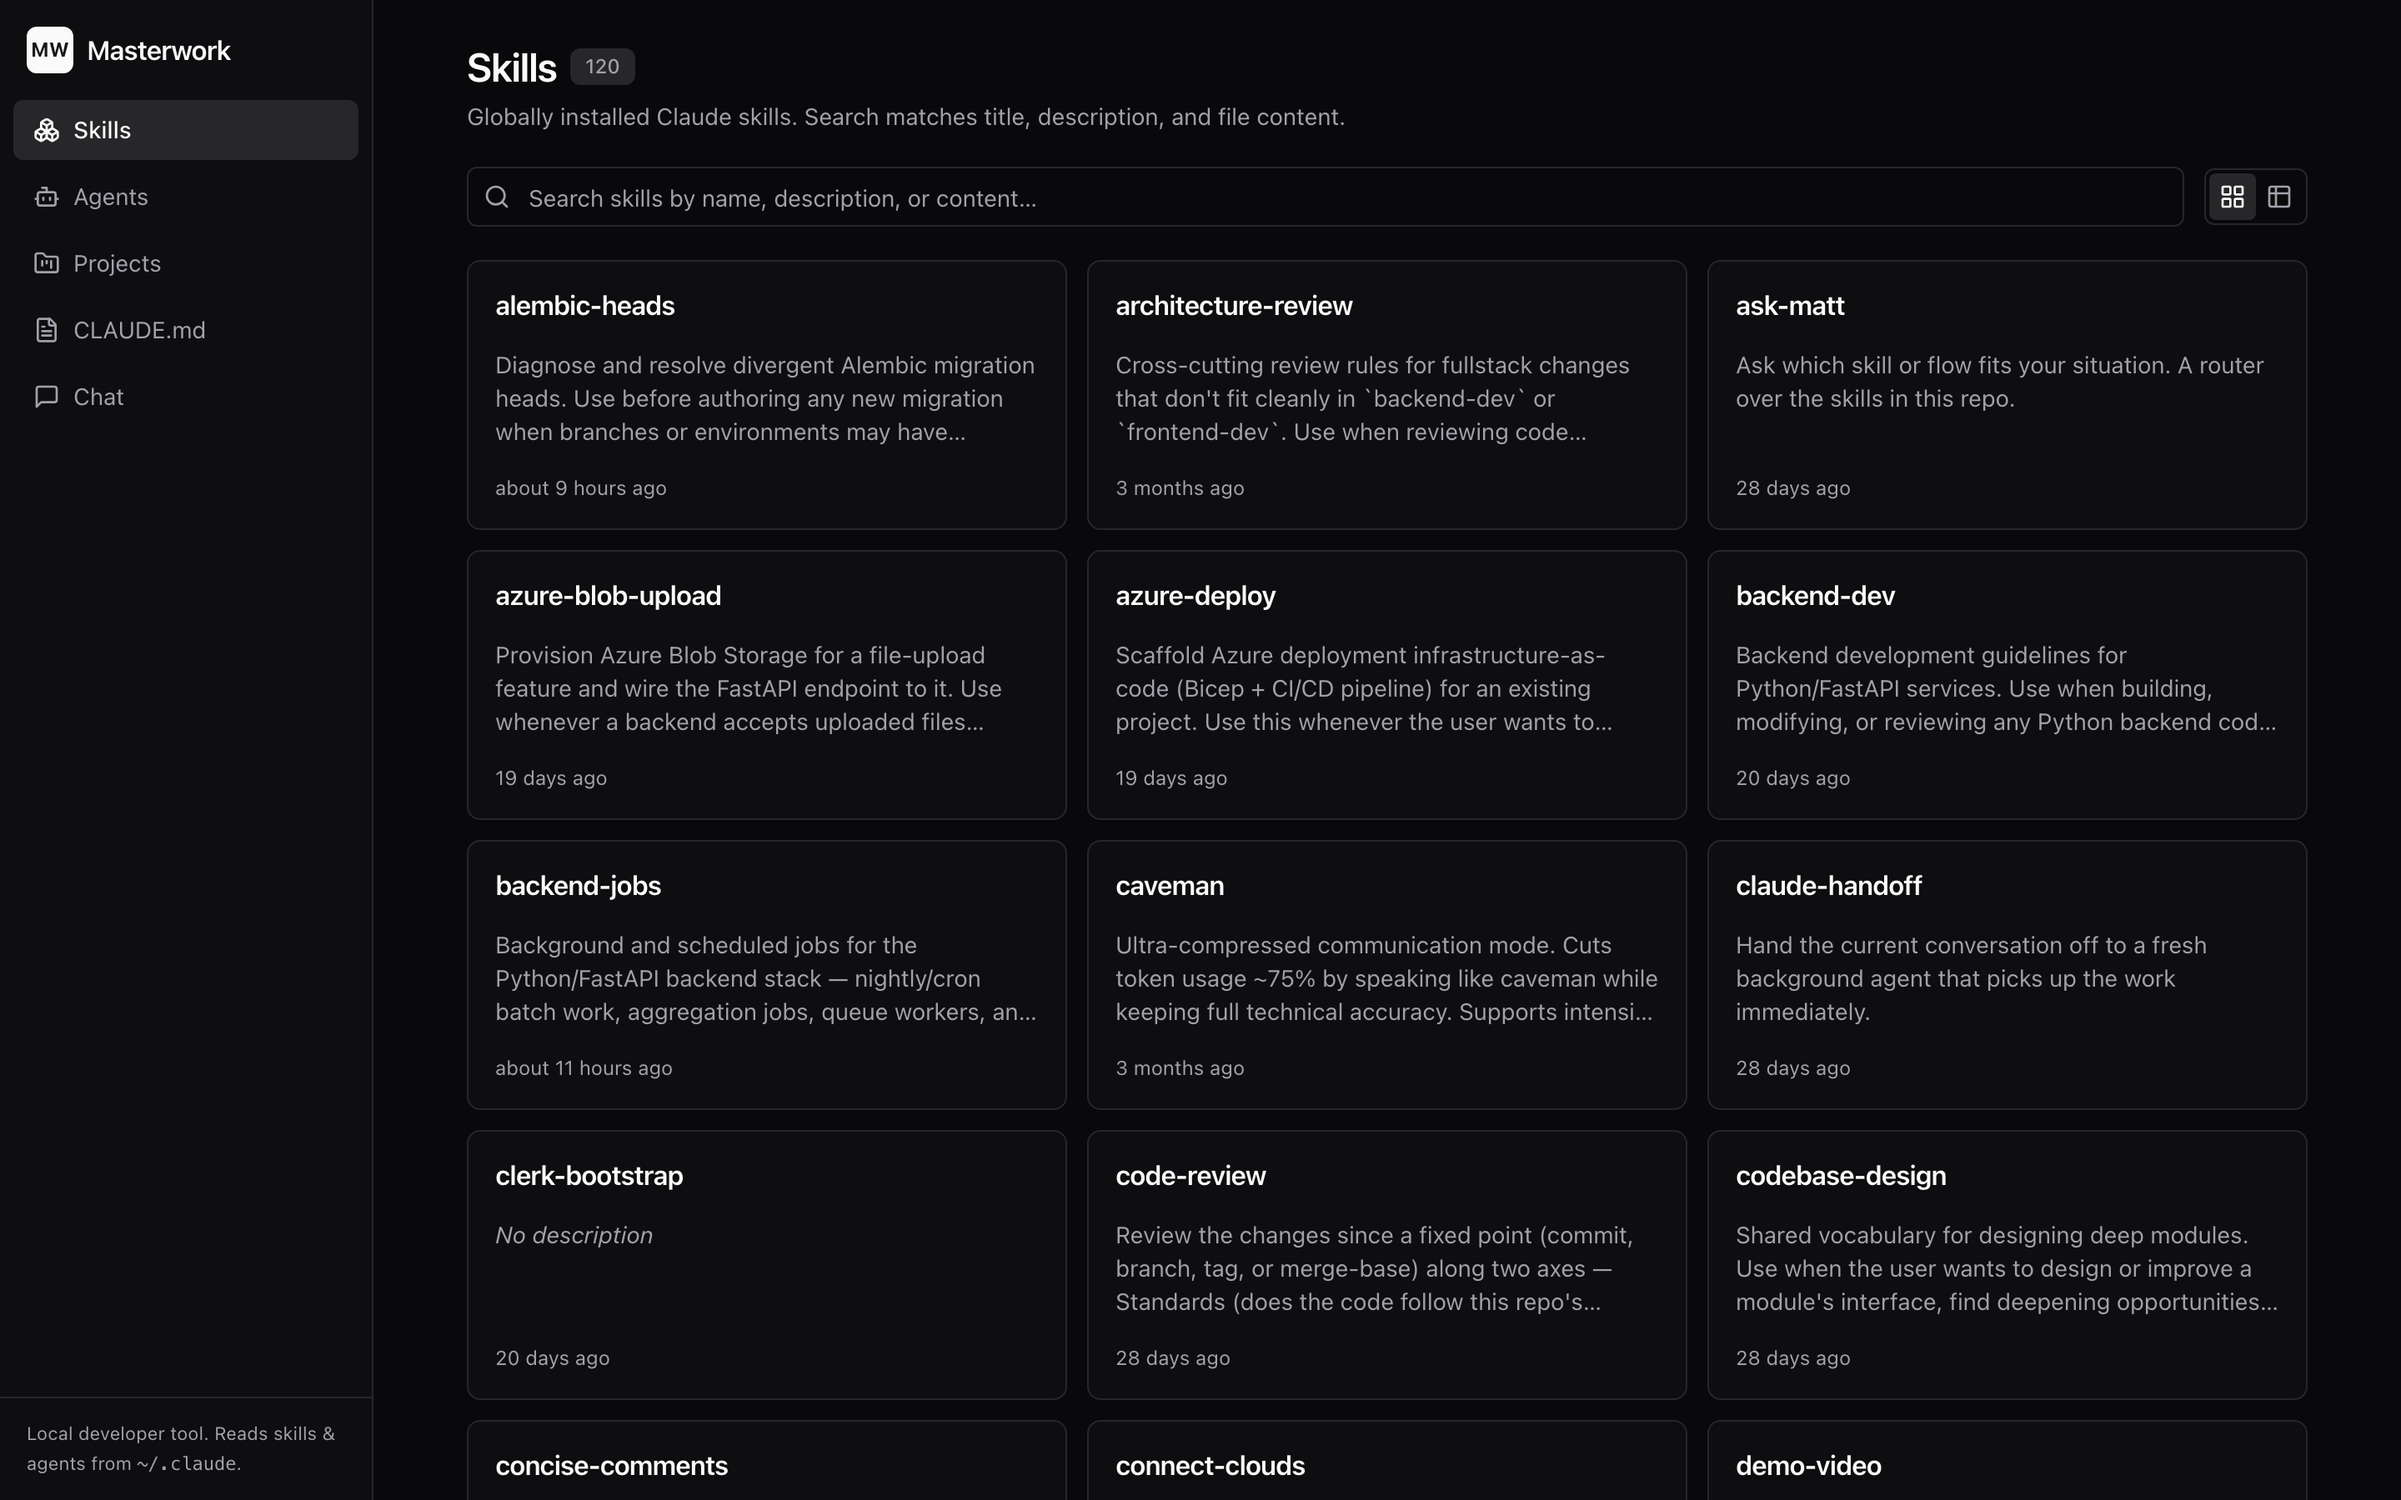
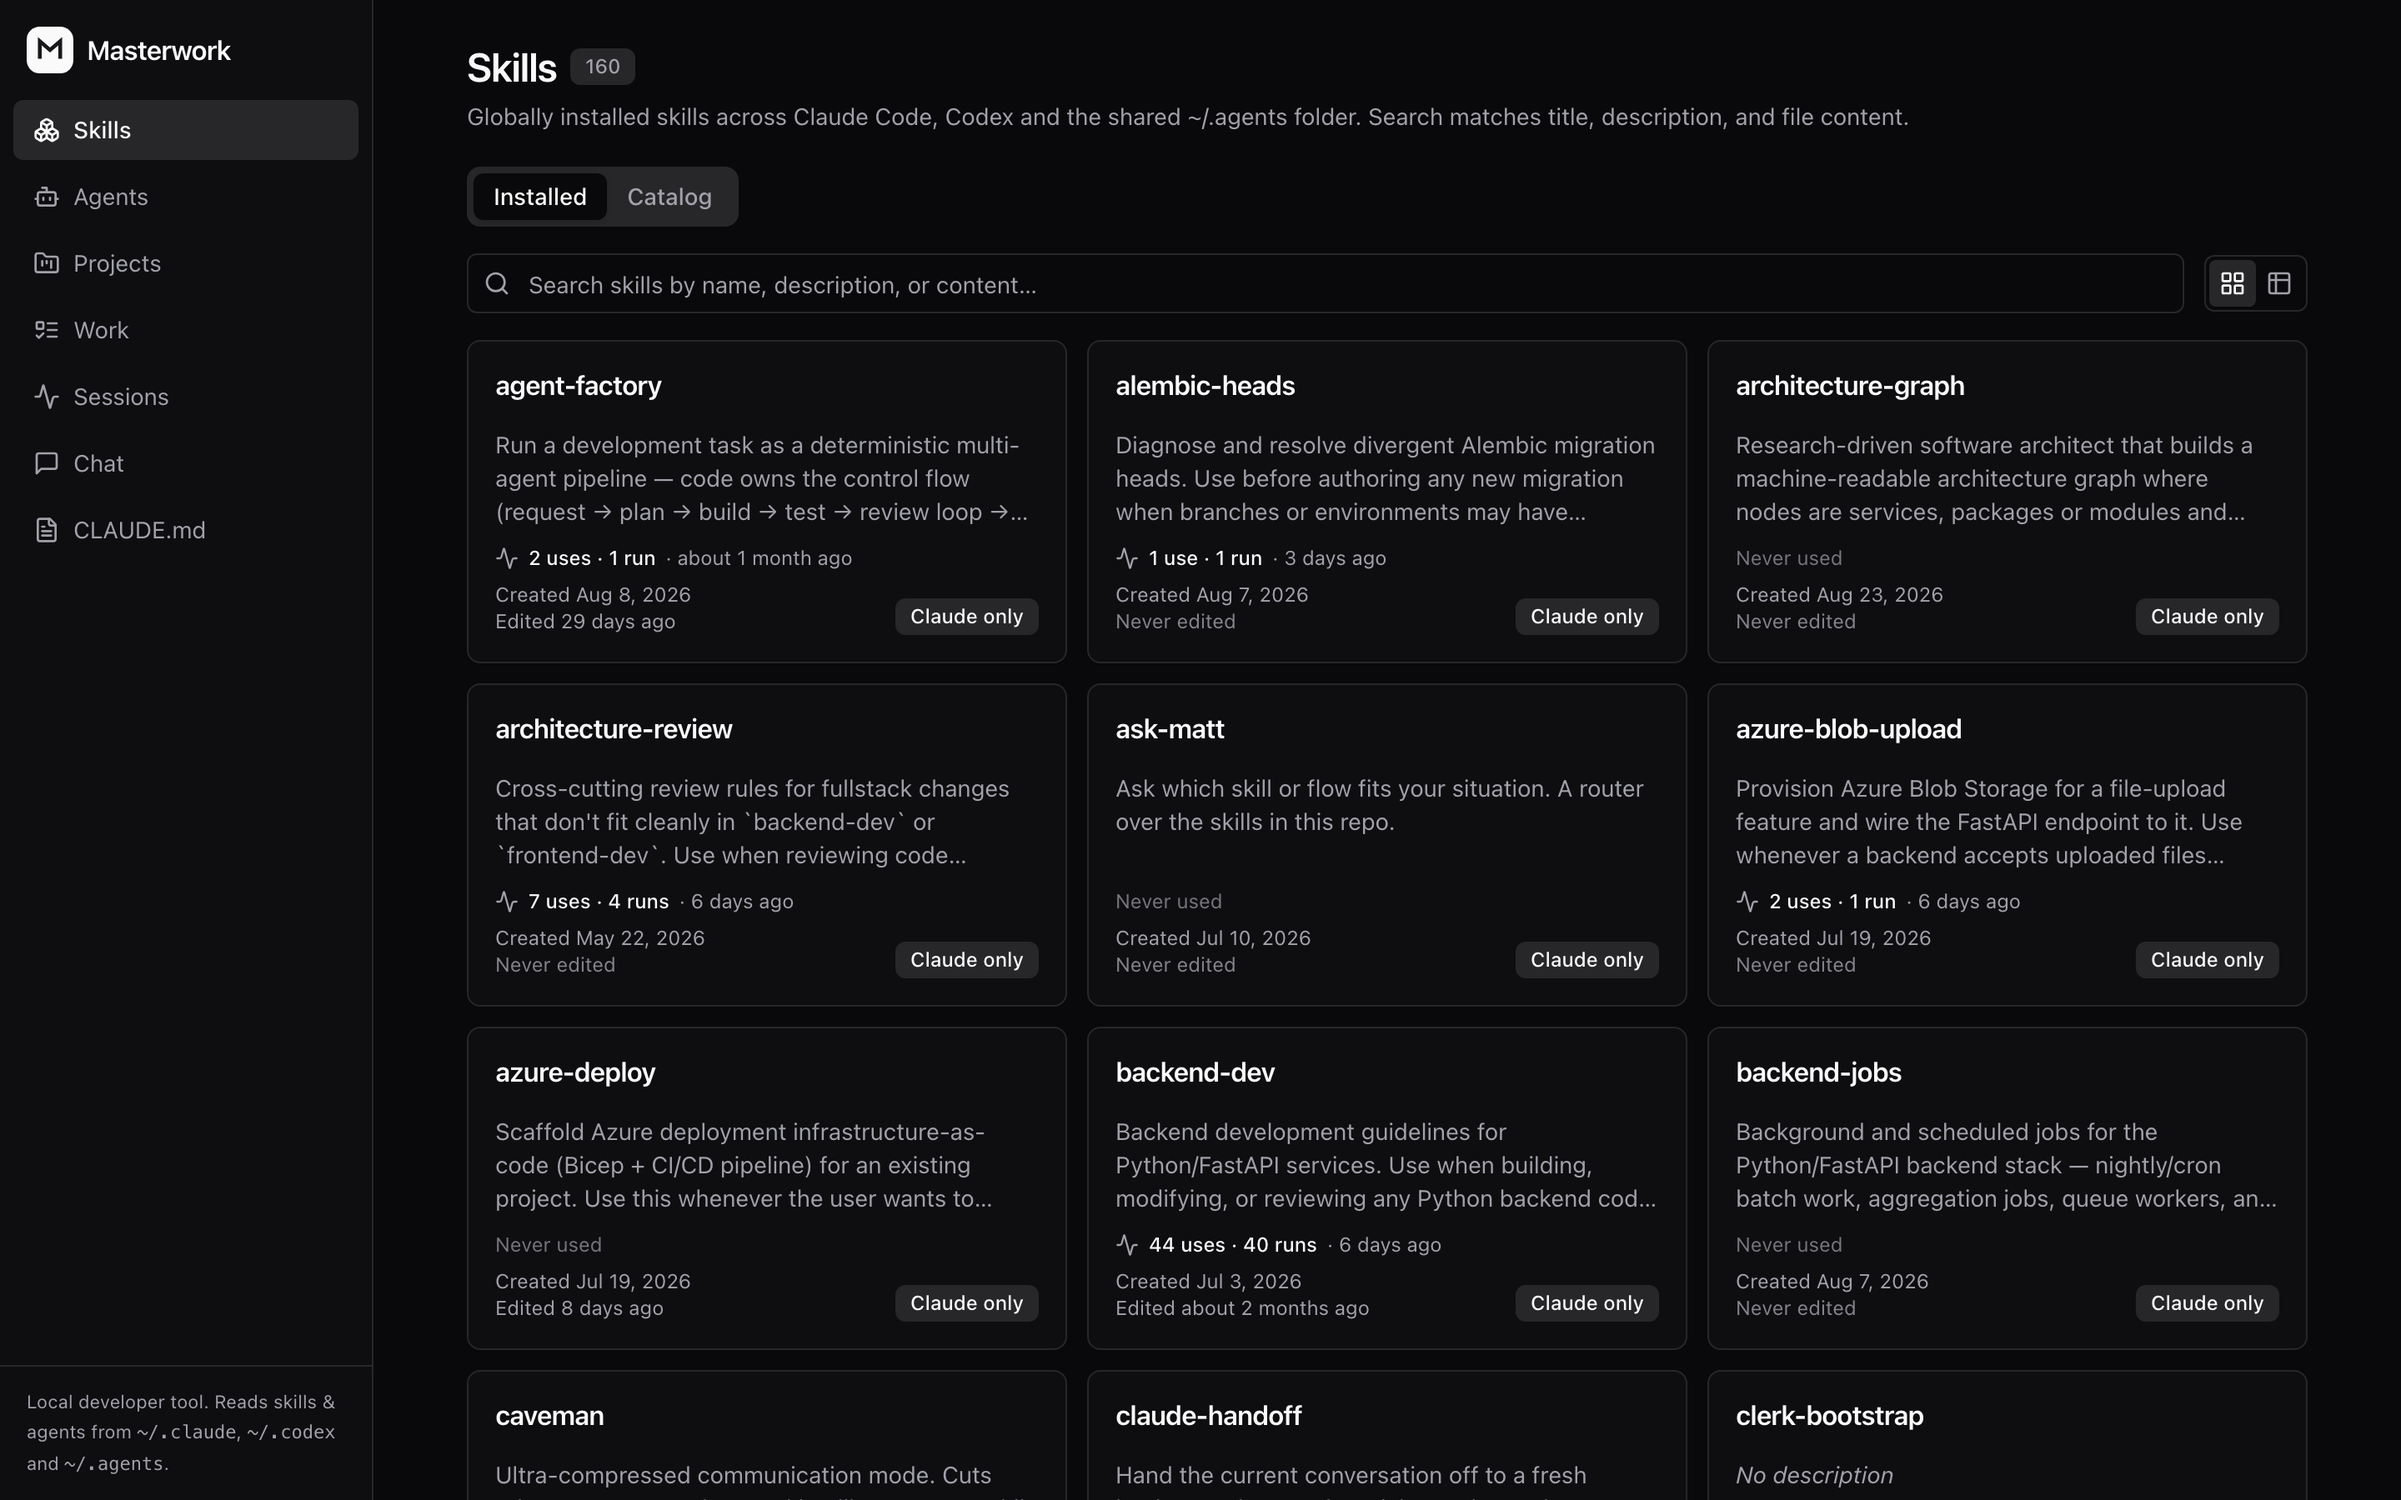
docs(readme): cover the catalog, the shared skills folder and Work
The README described the tool as of ~/.claude only: no catalog tab, no
Codex, no shared ~/.agents folder, no Work screen. Adds a section for
where skills live and what "make generic" does to them, one for the
community catalog and its licence gate, bullets for the rest, and updates
the module map and both roadmap items that shipped in part.

New screenshots at the same 1440x900@2x as the existing ones: the skills
list showing the same skill in two folders with only one of them loaded,
the make-generic confirmation, and a catalog search. skills.png is
re-taken because it was a month stale.

diff --git a/README.md b/README.md
@@ -4,9 +4,9 @@
 [![CI](https://github.com/flieks/masterwork/actions/workflows/ci.yml/badge.svg)](https://github.com/flieks/masterwork/actions/workflows/ci.yml)
 [![License: Elastic-2.0](https://img.shields.io/badge/license-Elastic--2.0-blue.svg)](LICENSE)
 
-A local workbench for the skills and subagents your AI coding agent uses — browse
-them, edit them, refine them with AI, and **prove they work** with scored
-simulation runs.
+A local workbench for the skills and subagents your AI coding agents use — browse
+them across Claude Code, Codex and the shared `~/.agents` folder, edit them,
+refine them with AI, and **prove they work** with scored simulation runs.
 
 Writing a skill is easy. Knowing whether it actually fires at the right moment,
 does the right thing, and doesn't quietly overfit to the one example you wrote it
@@ -20,6 +20,13 @@ against — that's the hard part. Masterwork is built for that second half.
 
 - **Browse & edit** every skill and subagent installed on your machine, with
   search, diffs, and git-backed snapshots of every change.
+- **Every agent's folder, one list** — Claude Code reads `~/.claude`, Codex reads
+  `~/.codex`, and neither looks in the other's. Each skill is badged with the
+  agents that actually load it, so a copy nothing reads is visible instead of
+  silent.
+- **Install from the catalog** — search skills.sh and GitHub's `claude-skills`
+  topic in one box, read the `SKILL.md` before you commit to it, and install.
+  Unlicensed skills say so and take a second click.
 - **Simulate** — run a skill against a scenario, score the result against a
   checklist, and see exactly which criteria it missed. Re-run after edits to
   confirm the fix.
@@ -32,8 +39,13 @@ against — that's the hard part. Masterwork is built for that second half.
 - **Sessions** — record the runs your coding agent actually does: which skills
   and subagents each one used, where the time went, what it cost. One click to
   switch on.
+- **Work** — your backlog next to the pull requests waiting on you, with each
+  PR's review comments read in place and handed to a fresh coding session to
+  answer.
 - **Global instructions** — edit your agent's root instructions file in the same
   place as everything else.
+
+![The same two skills in two folders — one Claude loads, one nothing loads yet](docs/images/agents.png)
 
 ## Requirements
 
@@ -41,6 +53,7 @@ against — that's the hard part. Masterwork is built for that second half.
 - Python 3.13+ and [uv](https://docs.astral.sh/uv/)
 - Node 20+
 - The [Claude Code](https://claude.com/claude-code) CLI, signed in
+- Codex is optional: its skills folder is read when it exists
 
 No database server needed — it uses SQLite at `~/.masterwork/masterwork.db` and
 stores only chat sessions and simulation history. Your skills stay on disk.
@@ -83,6 +96,32 @@ npm run dev        # http://localhost:5192
 
 </details>
 
+## Where skills live
+
+`SKILL.md` is the same file for every agent, but each agent reads only its own
+folder: Claude Code `~/.claude/skills`, Codex `~/.codex/skills`. The way to share
+one is `~/.agents/skills`, the folder each agent links into its own.
+
+Masterwork lists all three and says which agents load each skill — **Claude
+only**, **Generic · Claude, Codex**, or **Generic · unlinked** for a shared copy
+nothing links to yet. **Make generic** does the move: the folder goes to
+`~/.agents/skills`, the old location becomes a link to it, and every other agent
+gets a link too, so the skill is on disk once and every agent still finds it. An
+identical copy already in the shared folder is adopted instead of duplicated; a
+copy that differs stops and asks before anything is overwritten.
+
+![The make-generic confirmation, naming both paths before anything moves](docs/images/make-generic.png)
+
+## Community catalog
+
+The **Catalog** tab searches skills.sh and GitHub's `topic:claude-skills` at once,
+merges the results, and shows you the `SKILL.md` before you install anything.
+Licensing is on the card: a GitHub repo with no license means all rights
+reserved, not unknown, so installing one takes a second click that names the
+risk. Uninstall only removes what masterwork installed, never a skill you wrote.
+
+![Catalog search results, each with its source and license](docs/images/catalog.png)
+
 ## Session recording
 
 The **Sessions** screen is empty until your coding agent tells masterwork that a
@@ -117,11 +156,13 @@ registry — the API, the screen and the button already handle the rest.
 frontend/   React + Vite + TS · Jotai + jotai-tanstack-query · react-router-dom · shadcn/ui
             API client generated (typescript-axios) from the backend's /openapi.json
 backend/    FastAPI · Pydantic v2 · SQLAlchemy 2.0 async · Alembic · uv
-            - assets:        scans provider roots (~/.claude/skills, ~/.claude/agents)
+            - assets:        scans every skills root (~/.claude, ~/.codex, ~/.agents)
+            - skills:        community catalog search, install and uninstall
             - instructions:  the global CLAUDE.md
             - chat:          claude -p subprocess runner, proposals, apply-changes
             - simulations:   scored dry-runs with checklist grading and run memory
             - sessions:      hook ingest, plus the per-agent wiring that installs it
+            - work:          the backlog and pull requests, delegated to sessions
 docs/       SPEC.md (product spec) · API_CONTRACT.md (the v1 API contract)
 ```
 
@@ -144,15 +185,17 @@ No auth, no multi-user: this is a single-user tool bound to localhost.
 
 ## Roadmap
 
-- **More agents.** `SKILL.md` is an open standard — Codex, Cursor, Gemini CLI and
-  others read the same files. The backend already routes through a provider
-  abstraction for assets and an integration abstraction for session recording;
-  adding an agent to either is the natural first contribution.
+- **More agents.** Codex's skills folder and the shared `~/.agents` one are read
+  today; session recording is still Claude Code only, and Cursor and Gemini CLI
+  are not read at all. Assets route through a provider abstraction and session
+  recording through an integration one, so adding an agent to either is the
+  natural first contribution.
 - **A faster first run.** `npx masterwork` currently runs the frontend through
   Vite's dev server, so the very first launch waits on a full install. Shipping a
   pre-built frontend would cut that to seconds.
-- **A hub.** Publish and pull skills, subagents and projects — with simulation
-  scores attached, so you can see what a skill actually does before installing it.
+- **A hub.** Pulling from the community catalog works; publishing back does not.
+  Skills, subagents and projects, with simulation scores attached, so you can see
+  what a skill actually does before installing it.
 
 Issues and PRs welcome, especially for the first item.
 
